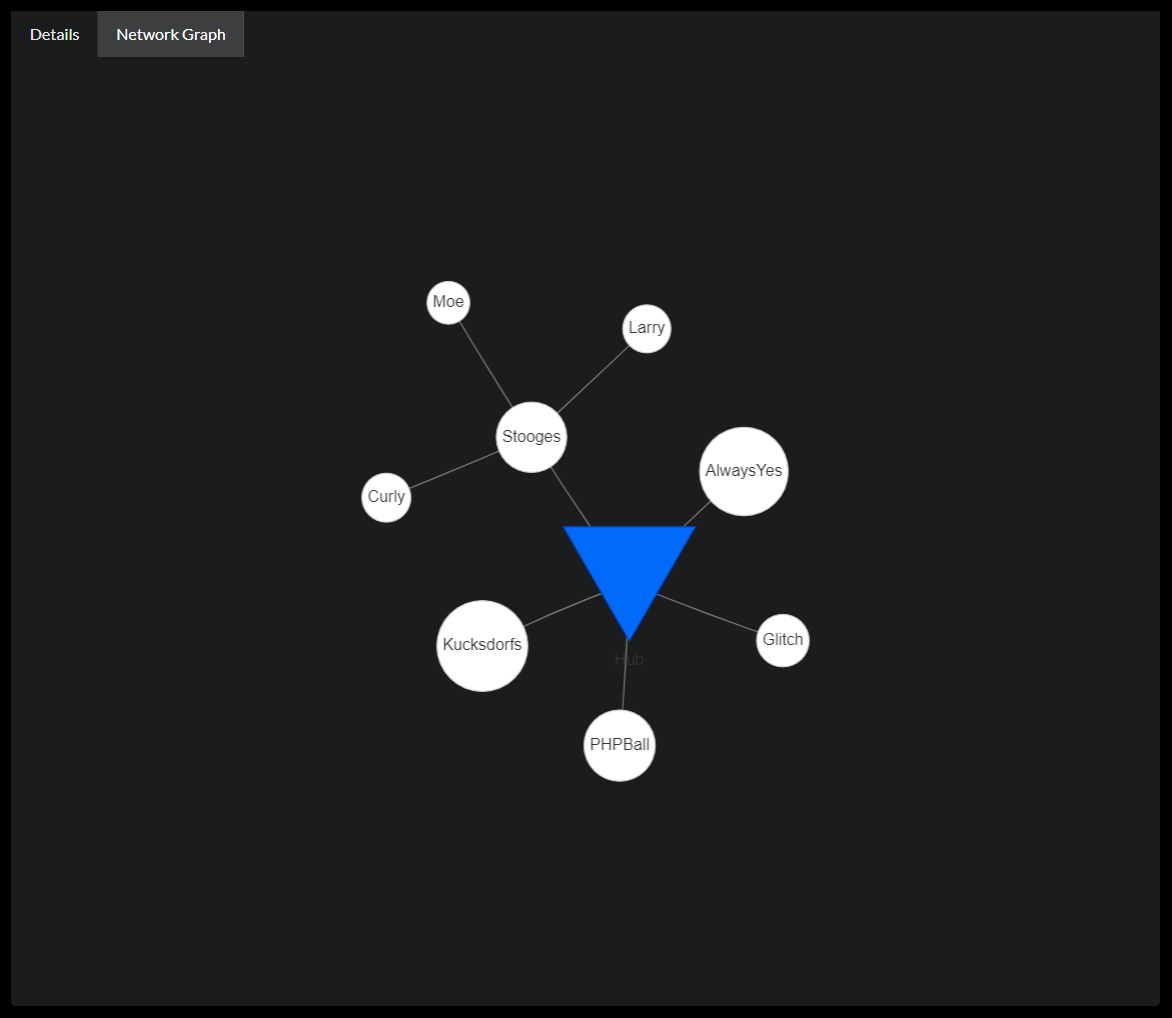
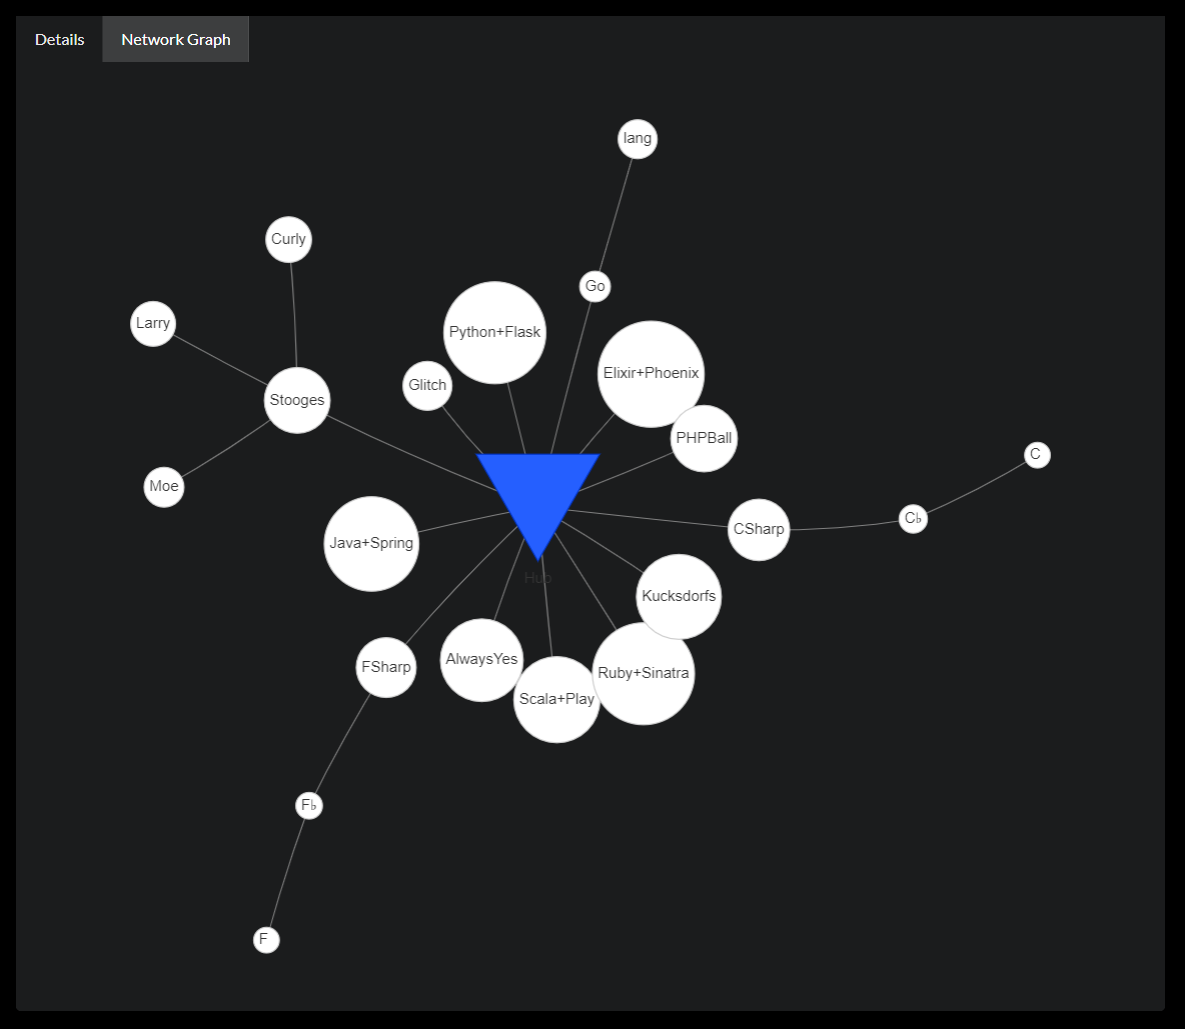
update readme and screenshots

diff --git a/README.md b/README.md
@@ -2,9 +2,18 @@
 
 Ask a yes or no question and get a consensus response from our network of 8-balls! Why settle for just one?!
 
+Ask a Question... Get an Answer!
+
 ![basic view](https://github.com/qccoders/8ball/blob/master/docs/img/basic.PNG?raw=true)
 
-[![CircleCI](https://circleci.com/gh/qccoders/8ball/tree/master.svg?style=shield)](https://circleci.com/gh/qccoders/8ball/tree/master)
+Click the triangle to see how the answer was derived!
+
+![details](https://github.com/qccoders/8ball/blob/master/docs/img/details.PNG?raw=true)
+
+Click the Network Graph tab to see the distributed network!
+
+![network graph](https://github.com/qccoders/8ball/blob/master/docs/img/network.PNG?raw=true)
+
 
 ## Start Web
 
@@ -30,7 +39,7 @@ go run .
 
 ## Build Docker Image
 
-Assumes Node.js, Yarn, Golang and Docker are installed.
+Assumes [Node.js](https://nodejs.org/en/), [Yarn](https://yarnpkg.com/en/), [Golang](https://golang.org/doc/install) and [Docker](https://docs.docker.com/install/) are installed.
 
 ```
 git clone https://github.com/qccoders/8ball
@@ -57,3 +66,5 @@ Be sure that you've registered on the [Hacktoberfest 2019](https://hacktoberfest
 7. When your PR has been approved it will be merged.  Thanks for your contribution!
 
 If you aren't sure what to do at any point, ask! There are no stupid questions.
+
+[![CircleCI](https://circleci.com/gh/qccoders/8ball/tree/master.svg?style=shield)](https://circleci.com/gh/qccoders/8ball/tree/master)
